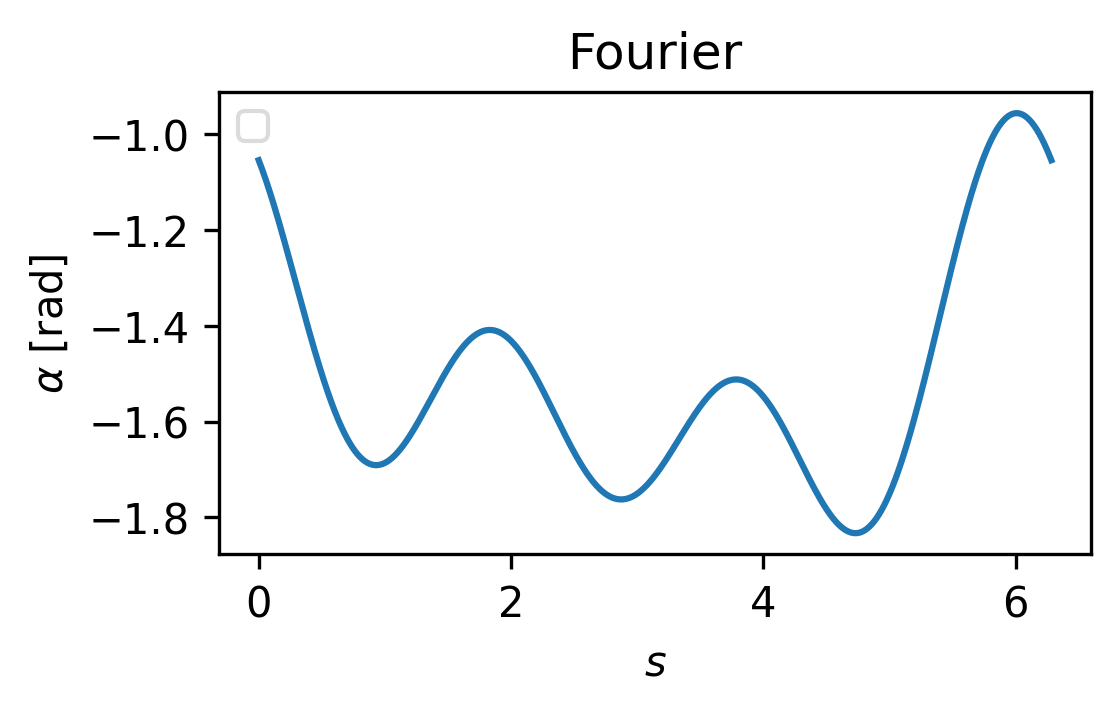
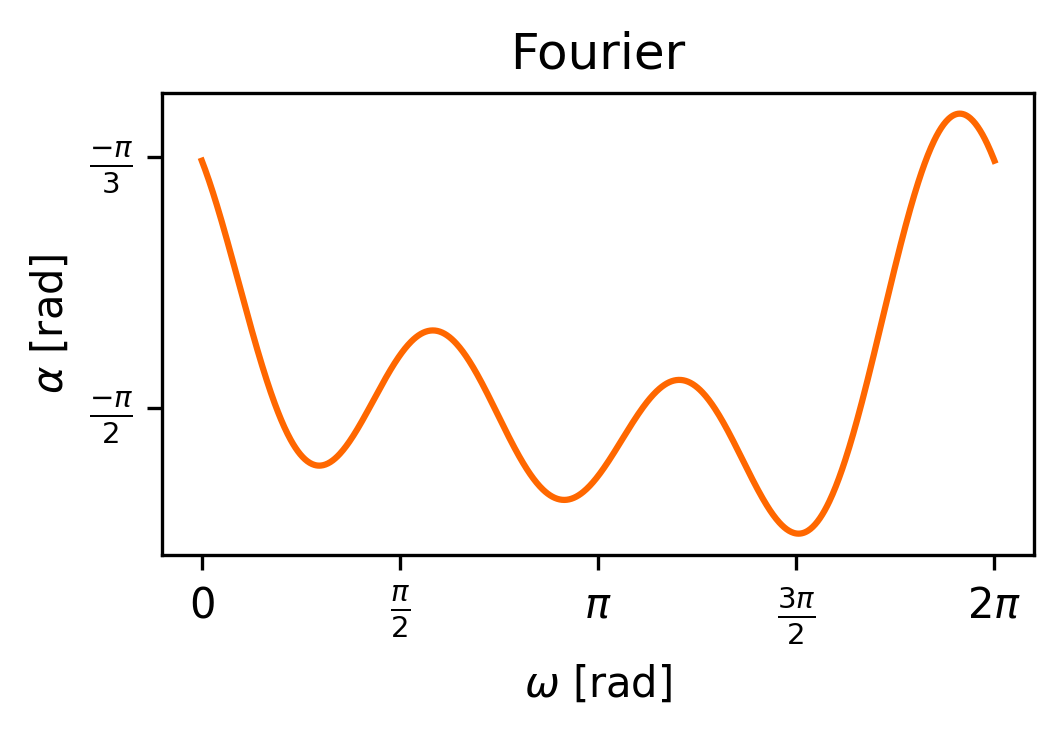
minor in plots

diff --git a/Media/Activation_Plots.py b/Media/Activation_Plots.py
@@ -114,9 +114,6 @@ def plot_bidirect():
 
 def plot_fourier():
     fig = plt.figure(figsize=FIG_SIZE)
-
-   
-    
     S = np.linspace(0, 2*np.pi, 1000)
     
     def compute_alpha(omega, s):
@@ -131,26 +128,32 @@ def plot_fourier():
                 alpha *= s  # Scale by s
                 return alpha
     
+    palette = _colors.create_palette(1)
       
     ANGLE = compute_alpha(S, 1)
     ANGLE = np.clip(ANGLE, -np.pi, np.pi)
-    #$\lambda$={format_number(param[0])} 
-    #label = f'$A$={format_number(param[1])} $B$={format_number(param[2])} $C$={format_number(param[3])}'
-    plt.plot(S, ANGLE)
+    plt.plot(S, ANGLE, color=palette[0], linestyle='-', label='Fourier')
+
 
     plt.ylabel('$\\alpha$ [rad]')
-    plt.xlabel('$s$')
-    plt.legend(fontsize=9, framealpha=0.7)#, loc='upper right')
-    #title
+    plt.xlabel('$\omega$ [rad]')
+
+
+    plt.xticks([0, np.pi/2, np.pi, 3*np.pi/2, 2*np.pi], [r'$0$', r'$\frac{\pi}{2}$', r'$\pi$', r'$\frac{3\pi}{2}$', r'$2\pi$'])
+    yticks = [-np.pi/2, -np.pi/3]
+    yticks_labels = [r'$\frac{-\pi}{2}$', r'$\frac{-\pi}{3}$']    
+    plt.yticks(yticks, yticks_labels)
+
     plt.title('Fourier')
     plt.savefig(f'{_folders.MEDIA_PATH}/Fourier.png', dpi=300, bbox_inches='tight')
     #plt.show()
     plt.close()
 
 
-from TunableParameters import TunableParameters
-TunableParameters.set_params()
+if __name__ == "__main__":
+    from TunableParameters import TunableParameters
+    TunableParameters.set_params()
 
-plot_logistic()
-plot_bidirect()
-plot_fourier()
+    plot_logistic()
+    plot_bidirect()
+    plot_fourier()

diff --git a/Environment/Simulator.py b/Environment/Simulator.py
@@ -57,7 +57,7 @@ class Simulator:
             self.target = Tetromino(self.setup['symbol'], self.setup['TILE_SIZE'], resolution=self.setup['resolution'])
             
             #Random target
-            TARGET_ANGLE = 45
+            TARGET_ANGLE = 180
             self.target.set_angle(random.randint(-TARGET_ANGLE, TARGET_ANGLE))
             self.target.rect.center = (self.board.X*self.board.TILE_SIZE//2, self.board.Y*self.board.TILE_SIZE//2)
             

diff --git a/Exp_Comparison.py b/Exp_Comparison.py
@@ -99,7 +99,6 @@ if __name__ == '__main__':
             run_data = simulator.run_simulation()
             
             #PERFORMANCE CALCULATION
-
             shape = run_data['SHAPE']
             target_center = np.array(run_data['TARGET_CENTER'])/TILE_SIZE
             target_angle = run_data['TARGET_ANGLE']

diff --git a/TunableParameters.py b/TunableParameters.py
@@ -28,4 +28,4 @@ class TunableParameters:
         print('Gaussian:', TunableParameters.GAUSSIAN_PARAMS)
         print('Fourier:', TunableParameters.FOURIER_PARAMS)
 
-TunableParameters.print_params()
+#TunableParameters.print_params()
